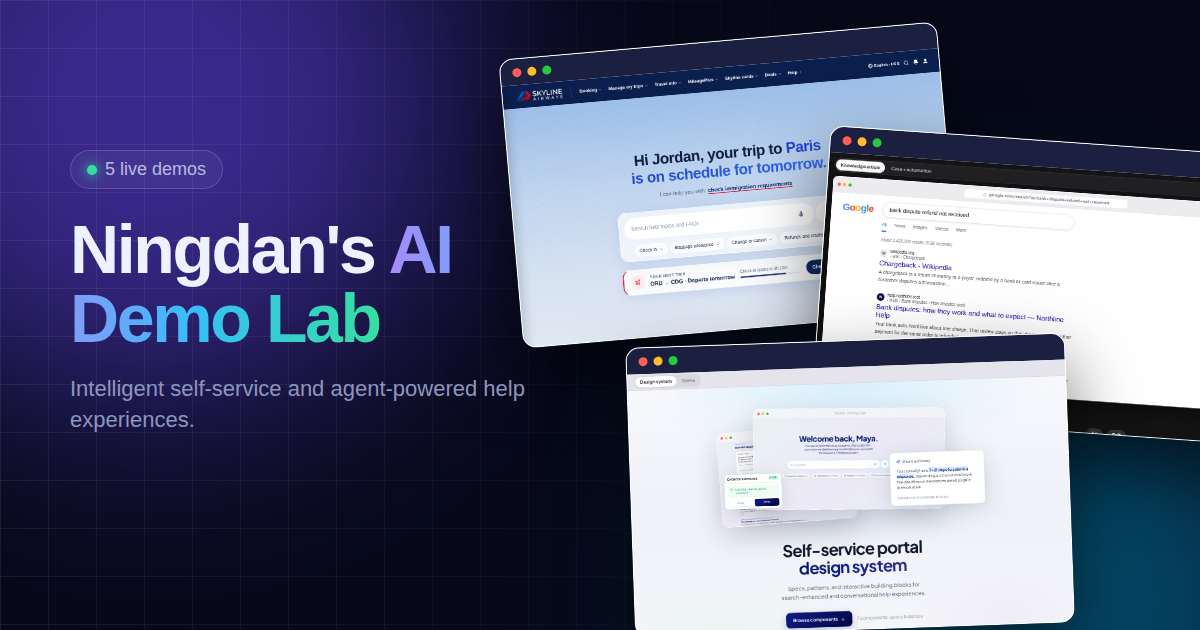
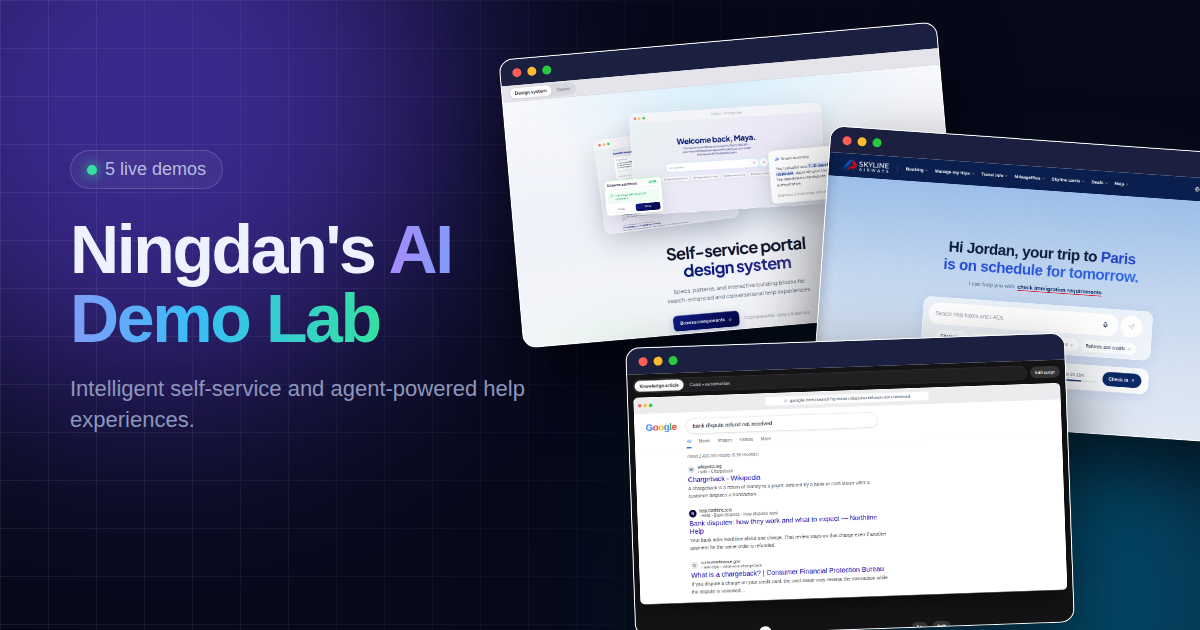
Update demo index

Changed region(s): [[0.4008, 0.0603, 1.0, 1.0]]

diff --git a/index.html b/index.html
@@ -64,6 +64,11 @@ footer{position:relative;z-index:1;text-align:center;padding:0 0 48px;color:var(
   <label class="ask"><span>✦</span><input id="q" placeholder="Ask for a demo… try “airline” or “help center”" autocomplete="off"><kbd>Find</kbd></label>
 </header>
 <main id="grid">
+  <a class="card" style="--c:#34e0a1" href="https://nzhang-cpu.github.io/design-system-demo/" data-k="design system demo">
+    <div class="shot"><div class="frame"><div class="bar"><i></i><i></i><i></i></div><img src="img/design-system-demo.png" alt="Self-service portal preview" loading="lazy"></div></div>
+    <div class="info"><div class="tag">Design system</div><h2>Self-service portal</h2><p>The building blocks — components, tokens and patterns — behind the portal demos.</p>
+    <div class="go"><span class="live"><span class="dot"></span>Live</span><b>Open demo →</b></div></div>
+  </a>
   <a class="card" style="--c:#38bdf8" href="https://nzhang-cpu.github.io/1102-fin-demo/" data-k="1102 fin demo">
     <div class="shot"><div class="frame"><div class="bar"><i></i><i></i><i></i></div><img src="img/1102-fin-demo.png" alt="United Airline + Fin preview" loading="lazy"></div></div>
     <div class="info"><div class="tag">Airline · AI agent</div><h2>United Airline + Fin</h2><p>Conversational self-service where an AI agent resolves travel requests end to end.</p>
@@ -72,11 +77,6 @@ footer{position:relative;z-index:1;text-align:center;padding:0 0 48px;color:var(
   <a class="card" style="--c:#a78bfa" href="https://nzhang-cpu.github.io/ai-zone-demo/" data-k="ai zone demo">
     <div class="shot"><div class="frame"><div class="bar"><i></i><i></i><i></i></div><img src="img/ai-zone-demo.png" alt="Northline Help preview" loading="lazy"></div></div>
     <div class="info"><div class="tag">Help center · AI zone</div><h2>Northline Help</h2><p>An AI-first help experience that answers questions before a ticket is ever needed.</p>
-    <div class="go"><span class="live"><span class="dot"></span>Live</span><b>Open demo →</b></div></div>
-  </a>
-  <a class="card" style="--c:#34e0a1" href="https://nzhang-cpu.github.io/design-system-demo/" data-k="design system demo">
-    <div class="shot"><div class="frame"><div class="bar"><i></i><i></i><i></i></div><img src="img/design-system-demo.png" alt="Self-service portal preview" loading="lazy"></div></div>
-    <div class="info"><div class="tag">Design system</div><h2>Self-service portal</h2><p>The building blocks — components, tokens and patterns — behind the portal demos.</p>
     <div class="go"><span class="live"><span class="dot"></span>Live</span><b>Open demo →</b></div></div>
   </a>
   <a class="card" style="--c:#fb923c" href="https://nzhang-cpu.github.io/ai-zone/" data-k="ai zone">

diff --git a/_src/thumb.html b/_src/thumb.html
@@ -19,8 +19,8 @@ p{font-size:22px;color:#8d96bd;line-height:1.4}
 .b2{right:-60px;top:140px;transform:rotate(4deg)}
 .c{right:130px;top:340px;transform:rotate(-2deg)}
 </style></head><body><div class="g1"></div><div class="g2"></div><div class="grid"></div>
-<div class="w a"><div class="b"><i></i><i></i><i></i></div><img src="../img/1102-fin-demo.png"></div>
-<div class="w b2"><div class="b"><i></i><i></i><i></i></div><img src="../img/ai-zone-demo.png"></div>
-<div class="w c"><div class="b"><i></i><i></i><i></i></div><img src="../img/design-system-demo.png"></div>
+<div class="w a"><div class="b"><i></i><i></i><i></i></div><img src="../img/design-system-demo.png"></div>
+<div class="w b2"><div class="b"><i></i><i></i><i></i></div><img src="../img/1102-fin-demo.png"></div>
+<div class="w c"><div class="b"><i></i><i></i><i></i></div><img src="../img/ai-zone-demo.png"></div>
 <div class="t"><span class="pill"><i></i>5 live demos</span><h1>Ningdan's <em>AI Demo Lab</em></h1><p>Intelligent self-service and agent-powered help experiences.</p></div>
 </body></html>
